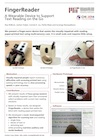
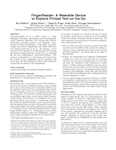
fr paper front page

diff --git a/index.html b/index.html
@@ -162,6 +162,16 @@ pageTracker._trackPageview();
 		<h4>Recent Publications</h4>
 		</div>
 		<div class="one column">
+		<img src="./images/covers/fingerreader.jpg" border="0" height="70px"/>
+		</div>
+		<div class="seven columns">
+		<p>
+		<span style="letter-spacing: -0.01em">FingerReader: A Wearable Device to Explore Printed Text on the Go</span>
+		<br />Shilkrot*, <strong>Huber*</strong>, Wong, Maes and Nanayakkara 
+		<br />Full Paper. In Proceedings of CHI '15. <span style="font-size:smaller">[* equal contribution]</span><!--&nbsp; <a href="http://fluid.media.mit.edu/sites/default/files/paper317.pdf" target="_blank"><i class="fa fa-download"></i></a>-->
+		</p>
+		</div>
+		<div class="one column">
 		<img src="./images/covers/earput.jpg" border="0" height="70px"/>
 		</div>
 		<div class="seven columns">
@@ -191,16 +201,7 @@ pageTracker._trackPageview();
 		<br />Full Paper. In Proceedings of CHI ’14. &nbsp; <a href="http://fluid.media.mit.edu/sites/default/files/2014-CHI-Permulin.pdf" target="_blank"><i class="fa fa-download"></i></a>
 		</p>
 		</div>
-		<div class="one column">
-		<img src="./images/covers/fingerreader.jpg" border="0" height="70px"/>
-		</div>
-		<div class="seven columns">
-		<p>
-		<span style="letter-spacing: -0.01em">FingerReader: A Wearable Device to Support Text-Reading on the Go</span>
-		<br />Shilkrot, <strong>Huber</strong>, Liu, Maes and Nanayakkara  
-		<br />Work in Progress. In Proceedings of CHI '14. &nbsp; <a href="http://fluid.media.mit.edu/sites/default/files/paper317.pdf" target="_blank"><i class="fa fa-download"></i></a>
-		</p>
-		</div>
+		
 		<!--<div class="one column">
 		<img src="./images/covers/spidervision.jpg" border="0" height="70px"/>
 		</div>
